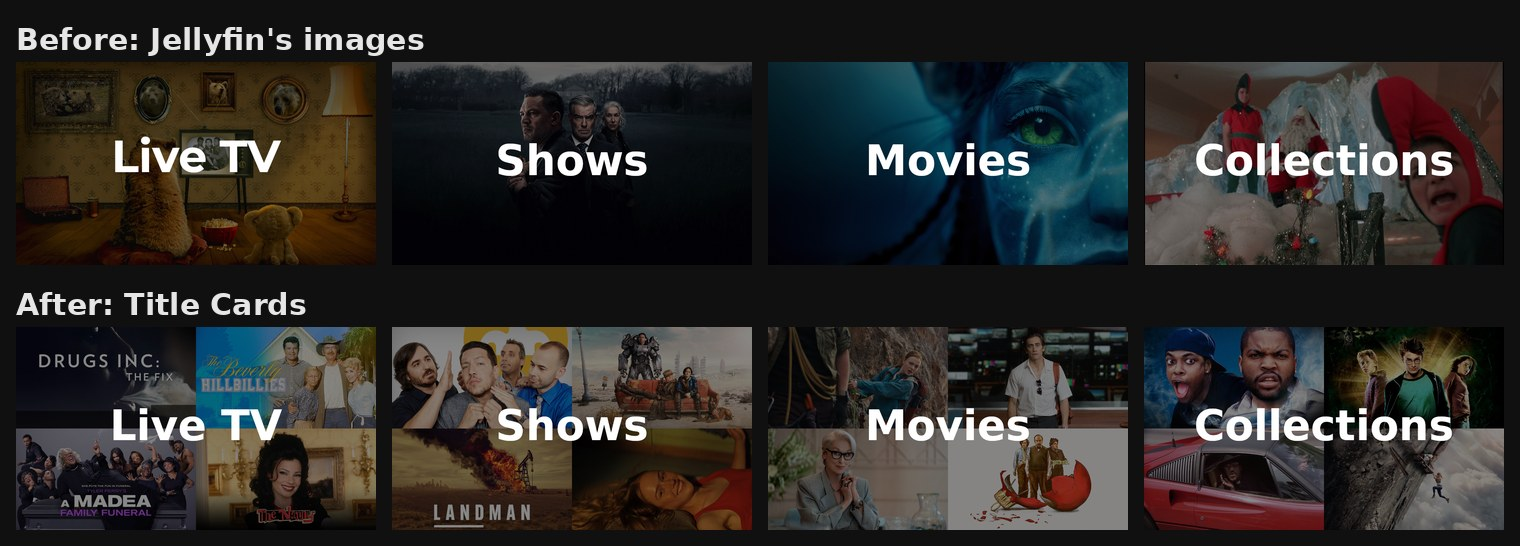
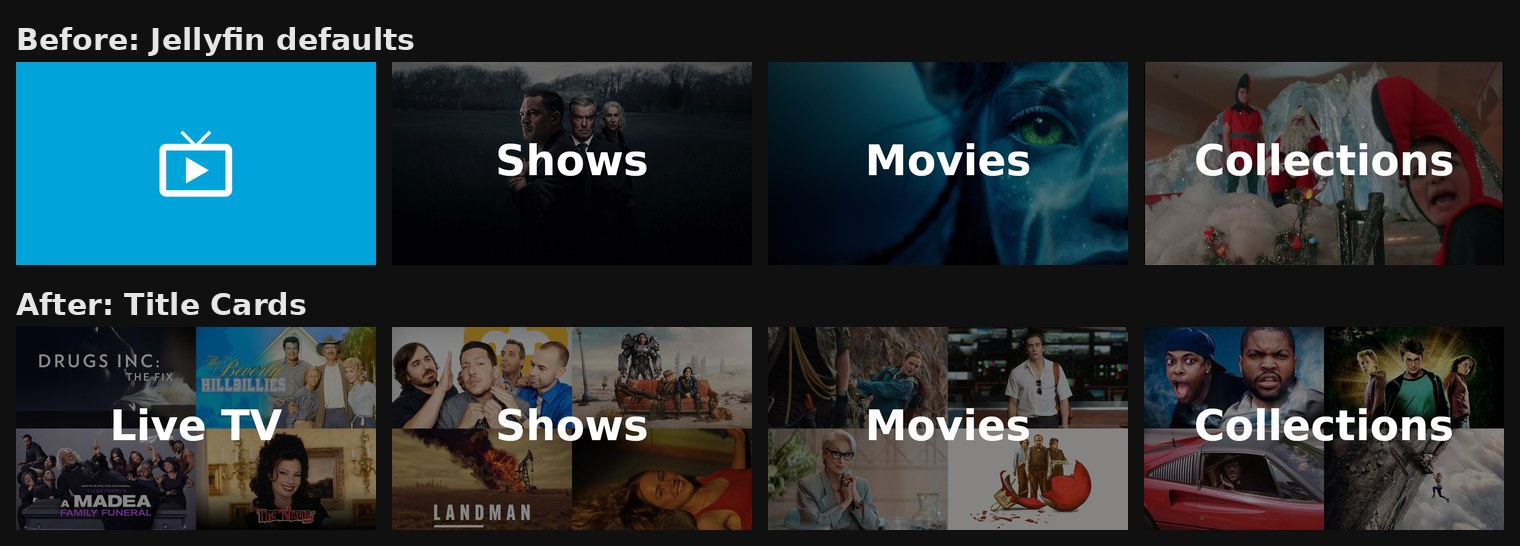
README: example cards for more library types; Jellyfin's real default Live TV card
- Add rendered examples for Music, Audiobooks, Books and Photos, built with
  the plugin's recipe from generated artwork (build/render_examples.py).
- The before/after now shows Jellyfin's default no-image Live TV card (dark
  theme colour for the name, Material live_tv icon) instead of a custom
  image that was never Jellyfin's default.

Changed region(s): [[0.0, 0.0311, 0.2783, 0.4982]]

diff --git a/build/render_examples.py b/build/render_examples.py
@@ -1,0 +1,289 @@
+#!/usr/bin/env python3
+"""Render README example cards for library types without real artwork to hand.
+
+Generates original abstract artwork (album and audiobook covers, book covers, landscape
+"photos"), then builds cards from it with the same recipe as the plugin: text check behind the
+title, largest fillable layout, square/portrait art shown whole on a blurred fill, alpha 0x78
+layer and the title in DejaVu Sans Bold 112px on Jellyfin's baseline rule.
+
+Also draws Jellyfin's default card for a view with no image (used for Live TV in the
+before/after image): the dark theme's colour for the name, with the Material icon centred.
+
+    pip install pillow rapidocr onnxruntime
+    python build/render_examples.py out/ --icon-font path/to/MaterialIcons-Regular.ttf
+
+The icon font ships with jellyfin-web (material-design-icons-iconfont, Apache-2.0).
+"""
+
+import argparse
+import logging
+import math
+import random
+from pathlib import Path
+
+from PIL import Image, ImageDraw, ImageFilter, ImageFont, ImageOps
+
+FONT = "/usr/share/fonts/truetype/dejavu/DejaVuSans-Bold.ttf"
+CARD = (960, 540)
+LAYOUTS = {
+    4: [(0, 0, 480, 270), (480, 0, 960, 270), (0, 270, 480, 540), (480, 270, 960, 540)],
+    3: [(0, 0, 480, 270), (480, 0, 960, 270), (0, 270, 960, 540)],
+    2: [(0, 0, 480, 540), (480, 0, 960, 540)],
+    1: [(0, 0, 960, 540)],
+}
+MARGIN = 24
+# jellyfin-web dark theme .defaultCardBackground1..5
+DEFAULT_CARD_COLOURS = ["#00455c", "#44bae1", "#00a4db", "#1c4c5c", "#007ea8"]
+PALETTES = [
+    [(244, 162, 89), (217, 72, 95), (79, 37, 103)],
+    [(42, 157, 143), (233, 196, 106), (38, 70, 83)],
+    [(255, 209, 102), (6, 214, 160), (17, 138, 178)],
+    [(239, 71, 111), (255, 214, 165), (40, 30, 60)],
+    [(131, 197, 190), (237, 246, 249), (0, 109, 119)],
+    [(255, 112, 67), (255, 238, 173), (35, 35, 35)],
+    [(124, 77, 255), (0, 229, 255), (20, 16, 48)],
+    [(180, 220, 120), (60, 120, 80), (240, 240, 220)],
+]
+
+
+# ---------------------------------------------------------------- generated artwork
+
+def gradient(size, top, bottom, diagonal=False):
+    width, height = size
+    base = Image.new("RGB", (1, 256))
+    for y in range(256):
+        t = y / 255
+        base.putpixel((0, y), tuple(int(a + (b - a) * t) for a, b in zip(top, bottom)))
+    if not diagonal:
+        return base.resize(size, Image.Resampling.BILINEAR)
+    # Rotate an oversized gradient and crop the middle, so no empty corners show.
+    side = int(math.hypot(width, height)) + 2
+    image = base.resize((side, side), Image.Resampling.BILINEAR).rotate(35, resample=Image.Resampling.BICUBIC)
+    left, top = (side - width) // 2, (side - height) // 2
+    return image.crop((left, top, left + width, top + height))
+
+
+def grain(image, rng, amount=10):
+    noise = Image.effect_noise(image.size, amount).convert("RGB")
+    return Image.blend(image, noise, 0.06)
+
+
+def album_cover(rng, style):
+    size = (1000, 1000)
+    a, b, c = rng.choice(PALETTES)
+    image = gradient(size, a, c, diagonal=True)
+    draw = ImageDraw.Draw(image, "RGBA")
+    if style == 0:  # concentric rings
+        for r in range(480, 20, -36):
+            colour = b if (r // 36) % 2 else a
+            draw.ellipse((500 - r, 500 - r, 500 + r, 500 + r), outline=colour + (200,), width=14)
+    elif style == 1:  # sun over horizon bands
+        draw.ellipse((260, 180, 740, 660), fill=b + (255,))
+        for i, y in enumerate(range(560, 1000, 44)):
+            draw.rectangle((0, y, 1000, y + 22 + i * 2), fill=c + (255,))
+    elif style == 2:  # bokeh
+        for _ in range(40):
+            x, y, r = rng.randint(0, 1000), rng.randint(0, 1000), rng.randint(20, 140)
+            draw.ellipse((x - r, y - r, x + r, y + r), fill=rng.choice([a, b]) + (rng.randint(60, 150),))
+        image = image.filter(ImageFilter.GaussianBlur(6))
+    elif style == 3:  # waves
+        for k in range(14):
+            points = [(x, 500 + 260 * math.sin(x / 140 + k * 0.45) * math.cos(k / 5) + (k - 7) * 30) for x in range(0, 1001, 10)]
+            draw.line(points, fill=(b if k % 2 else a) + (220,), width=10)
+    elif style == 4:  # triangles
+        for _ in range(26):
+            x, y = rng.randint(-100, 1000), rng.randint(-100, 1000)
+            s = rng.randint(120, 380)
+            draw.polygon([(x, y), (x + s, y + rng.randint(-60, 60)), (x + rng.randint(0, s), y + s)],
+                         fill=rng.choice([a, b, c]) + (rng.randint(110, 210),))
+    else:  # halftone-ish grid of dots fading out
+        for gx in range(0, 1000, 50):
+            for gy in range(0, 1000, 50):
+                r = 22 * (1 - math.hypot(gx - 300, gy - 700) / 1100)
+                if r > 2:
+                    draw.ellipse((gx + 25 - r, gy + 25 - r, gx + 25 + r, gy + 25 + r), fill=b + (230,))
+    return grain(image, rng)
+
+
+def book_cover(rng):
+    size = (1000, 1500)
+    a, b, c = rng.choice(PALETTES)
+    image = gradient(size, c, a)
+    draw = ImageDraw.Draw(image, "RGBA")
+    kind = rng.randint(0, 3)
+    if kind == 0:  # moon over a dark block
+        draw.ellipse((180, 300, 820, 940), fill=b + (255,))
+        draw.rectangle((0, 1000, 1000, 1500), fill=c + (255,))
+    elif kind == 1:  # bold stripes
+        for i in range(8):
+            draw.rectangle((0, 260 + i * 120, 1000, 320 + i * 120), fill=(b if i % 2 else a) + (235,))
+    elif kind == 2:  # overlapping circles
+        for i, (x, y, r) in enumerate([(380, 620, 300), (640, 820, 260), (460, 1020, 200)]):
+            draw.ellipse((x - r, y - r, x + r, y + r), fill=[a, b, c][i] + (210,))
+    else:  # mountain peak
+        draw.polygon([(0, 1500), (500, 520), (1000, 1500)], fill=b + (255,))
+        draw.polygon([(320, 870), (500, 520), (680, 870), (580, 800), (500, 860), (420, 800)], fill=(250, 250, 250, 255))
+    draw.rectangle((40, 40, 960, 1460), outline=(255, 255, 255, 90), width=6)
+    return grain(image, rng)
+
+
+def landscape(rng):
+    width, height = 1600, 900
+    sky_top, sky_bottom, ground = rng.choice([
+        ((24, 40, 82), (247, 150, 70), (30, 30, 46)),
+        ((90, 160, 220), (220, 236, 245), (40, 70, 50)),
+        ((10, 14, 40), (60, 50, 120), (12, 12, 24)),
+        ((120, 80, 160), (255, 190, 120), (60, 40, 70)),
+    ])
+    image = gradient((width, height), sky_top, sky_bottom)
+    draw = ImageDraw.Draw(image, "RGBA")
+    sun_x, sun_y = rng.randint(300, 1300), rng.randint(250, 500)
+    draw.ellipse((sun_x - 90, sun_y - 90, sun_x + 90, sun_y + 90), fill=(255, 236, 200, 230))
+    for layer in range(4):
+        base = 520 + layer * 90
+        shade = tuple(int(g + (s - g) * (0.6 - layer * 0.18)) for g, s in zip(ground, sky_bottom))
+        y = base
+        points = [(0, height)]
+        for x in range(0, width + 40, 40):
+            y = max(base - 220, min(base + 60, y + rng.randint(-45, 45)))
+            points.append((x, y))
+        points.append((width, height))
+        draw.polygon(points, fill=shade + (255,))
+    if rng.random() < 0.5:  # lake
+        draw.rectangle((0, 780, width, height), fill=sky_bottom + (140,))
+    return grain(image.filter(ImageFilter.GaussianBlur(1)), rng)
+
+
+# ---------------------------------------------------------------- card recipe
+
+def title_font(title):
+    font = ImageFont.truetype(FONT, 112)
+    width = font.getlength(title)
+    if width > CARD[0] * 0.95:
+        font = ImageFont.truetype(FONT, int(0.9 * CARD[0] * 112 / width))
+    return font
+
+
+def title_origin(font):
+    x_box = font.getbbox("x", anchor="ls")
+    return CARD[0] / 2, CARD[1] / 2 + (x_box[3] - x_box[1]) / 2
+
+
+def title_band(title):
+    font = title_font(title)
+    x, y = title_origin(font)
+    left, top, right, bottom = font.getbbox(title, anchor="ms")
+    return (x + left - MARGIN, y + top - MARGIN, x + right + MARGIN, y + bottom + MARGIN)
+
+
+def overlaps(a, b):
+    return a[0] < b[2] and b[0] < a[2] and a[1] < b[3] and b[1] < a[3]
+
+
+def fit_tile(image, size):
+    ratio = (image.width / image.height) / (size[0] / size[1])
+    if 0.8 <= ratio <= 1.25:
+        return ImageOps.fit(image, size, method=Image.Resampling.LANCZOS)
+    background = ImageOps.fit(image, size, method=Image.Resampling.LANCZOS)
+    background = background.filter(ImageFilter.GaussianBlur(size[0] / 24)).point(lambda v: int(v * 0.55))
+    foreground = ImageOps.contain(image, size, method=Image.Resampling.LANCZOS)
+    background.paste(foreground, ((size[0] - foreground.width) // 2, (size[1] - foreground.height) // 2))
+    return background
+
+
+def text_boxes(ocr, image, size):
+    scale = max(1.0, 960 / size[0])
+    tile = fit_tile(image, (round(size[0] * scale), round(size[1] * scale)))
+    return [tuple(v / scale for v in box) for box in ocr(tile)]
+
+
+def pick(images, title, ocr):
+    band = title_band(title)
+    for count in (4, 3, 2, 1):
+        layout = LAYOUTS[count]
+        placed = [None] * count
+        for image in images:
+            for position, box in enumerate(layout):
+                if placed[position] is not None:
+                    continue
+                size = (box[2] - box[0], box[3] - box[1])
+                clipped = (max(band[0], box[0]) - box[0], max(band[1], box[1]) - box[1],
+                           min(band[2], box[2]) - box[0], min(band[3], box[3]) - box[1])
+                keepout = clipped if overlaps(band, box) else None
+                if keepout is None or not any(overlaps(t, keepout) for t in text_boxes(ocr, image, size)):
+                    placed[position] = image
+                    break
+            if all(p is not None for p in placed):
+                return list(zip(placed, layout))
+    return []
+
+
+def compose(tiles, title):
+    card = Image.new("RGB", CARD)
+    for image, box in tiles:
+        card.paste(fit_tile(image, (box[2] - box[0], box[3] - box[1])), box[:2])
+    card = Image.alpha_composite(card.convert("RGBA"), Image.new("RGBA", CARD, (0, 0, 0, 0x78)))
+    font = title_font(title)
+    ImageDraw.Draw(card).text(title_origin(font), title, font=font, fill="white", anchor="ms")
+    return card.convert("RGB")
+
+
+def default_card(name, icon_font, codepoint):
+    """Jellyfin web's card for a view with no image (dark theme)."""
+    character = str(ord(name[len(name) // 2]))
+    index = int(str(sum(int(d) for d in character))[-1]) % 5
+    card = Image.new("RGB", CARD, DEFAULT_CARD_COLOURS[index])
+    font = ImageFont.truetype(icon_font, int(CARD[0] * 0.22))
+    ImageDraw.Draw(card).text((CARD[0] / 2, CARD[1] / 2), codepoint, font=font, fill="white", anchor="mm")
+    return card
+
+
+def make_ocr():
+    from rapidocr import RapidOCR
+
+    logging.getLogger("RapidOCR").setLevel(logging.ERROR)
+    engine = RapidOCR(params={"Global.log_level": "error"})
+
+    def detect(image):
+        result = engine(image)
+        if result.boxes is None:
+            return []
+        out = []
+        for box, score in zip(result.boxes, result.scores or []):
+            if float(score) >= 0.5:
+                xs, ys = [float(p[0]) for p in box], [float(p[1]) for p in box]
+                out.append((min(xs), min(ys), max(xs), max(ys)))
+        return out
+
+    return detect
+
+
+def main():
+    parser = argparse.ArgumentParser(description=__doc__, formatter_class=argparse.RawDescriptionHelpFormatter)
+    parser.add_argument("out", type=Path)
+    parser.add_argument("--icon-font", required=True)
+    parser.add_argument("--seed", type=int, default=12)
+    args = parser.parse_args()
+    args.out.mkdir(parents=True, exist_ok=True)
+    rng = random.Random(args.seed)
+    ocr = make_ocr()
+
+    libraries = {
+        "Music": [album_cover(rng, i % 6) for i in range(8)],
+        "Audiobooks": [album_cover(rng, (i + 3) % 6) for i in range(8)],
+        "Books": [book_cover(rng) for _ in range(8)],
+        "Photos": [landscape(rng) for _ in range(8)],
+    }
+    for title, images in libraries.items():
+        rng.shuffle(images)
+        tiles = pick(images, title, ocr)
+        compose(tiles, title).save(args.out / f"example-{title.lower()}.png")
+        print(f"{title}: {len(tiles)} tiles")
+
+    # Material Icons "live_tv" is U+E639.
+    default_card("Live TV", args.icon_font, "").save(args.out / "default-livetv.png")
+    print("default Live TV card")
+
+
+if __name__ == "__main__":
+    main()

diff --git a/README.md b/README.md
@@ -18,10 +18,18 @@ Cards for Live TV, TV shows, movies, collections, recordings (DVR) and a grouped
 
 ![Title cards for Live TV, Shows, Movies, Collections, DVR and a grouped TV Shows view](docs/images/gallery.jpg)
 
-Jellyfin's own generated images (top) and Title Cards (bottom). The title uses the same font,
-size and position; logos in guide art stay in the outer corners, clear of it:
+What Jellyfin shows by default (top) and Title Cards (bottom). Jellyfin generates a single-backdrop
+image for most libraries and none for Live TV, which gets a plain coloured card with an icon. The
+plugin's title uses the same font, size and position as Jellyfin's; logos in guide art stay in the
+outer corners, clear of it:
 
-![Before and after: Jellyfin's single-image library cards and Title Cards collages](docs/images/before-after.jpg)
+![Before and after: Jellyfin's default library images and Title Cards collages](docs/images/before-after.jpg)
+
+Other library types, rendered with the same recipe from generated example artwork (not real
+releases): square album and audiobook art and portrait book covers are shown whole on a blurred
+fill rather than cropped:
+
+![Example cards for Music, Audiobooks, Books and Photos libraries](docs/images/examples.jpg)
 
 ## Install
 
@@ -153,6 +161,7 @@ skipping an image. It never let through text that RapidOCR caught.
 | `build/package.py` | Builds the zip and updates `manifest.json` |
 | `build/make_parity_fixtures.py` | Makes fixtures for the detector parity test |
 | `build/make_logo.py` | Draws the logo (abstract tiles, no third-party artwork) |
+| `build/render_examples.py` | Renders the README's example cards and Jellyfin's default no-image card |
 
 ## AI assistance
 

diff --git a/THIRD-PARTY-NOTICES.md b/THIRD-PARTY-NOTICES.md
@@ -10,5 +10,7 @@ The plugin package includes:
 
 Used from the Jellyfin server at runtime, not shipped: SkiaSharp (MIT), Jellyfin libraries (GPL).
 
-`build/make_parity_fixtures.py` (development only) uses Pillow (MIT-CMU), RapidOCR (Apache-2.0)
-and ONNX Runtime (MIT), installed separately with pip.
+Development scripts only, not shipped: `build/make_parity_fixtures.py` and `build/render_examples.py`
+use Pillow (MIT-CMU), RapidOCR (Apache-2.0) and ONNX Runtime (MIT), installed separately with pip.
+`render_examples.py` draws the Live TV icon with Google's Material Icons font (Apache-2.0), taken
+from jellyfin-web's dependencies.
